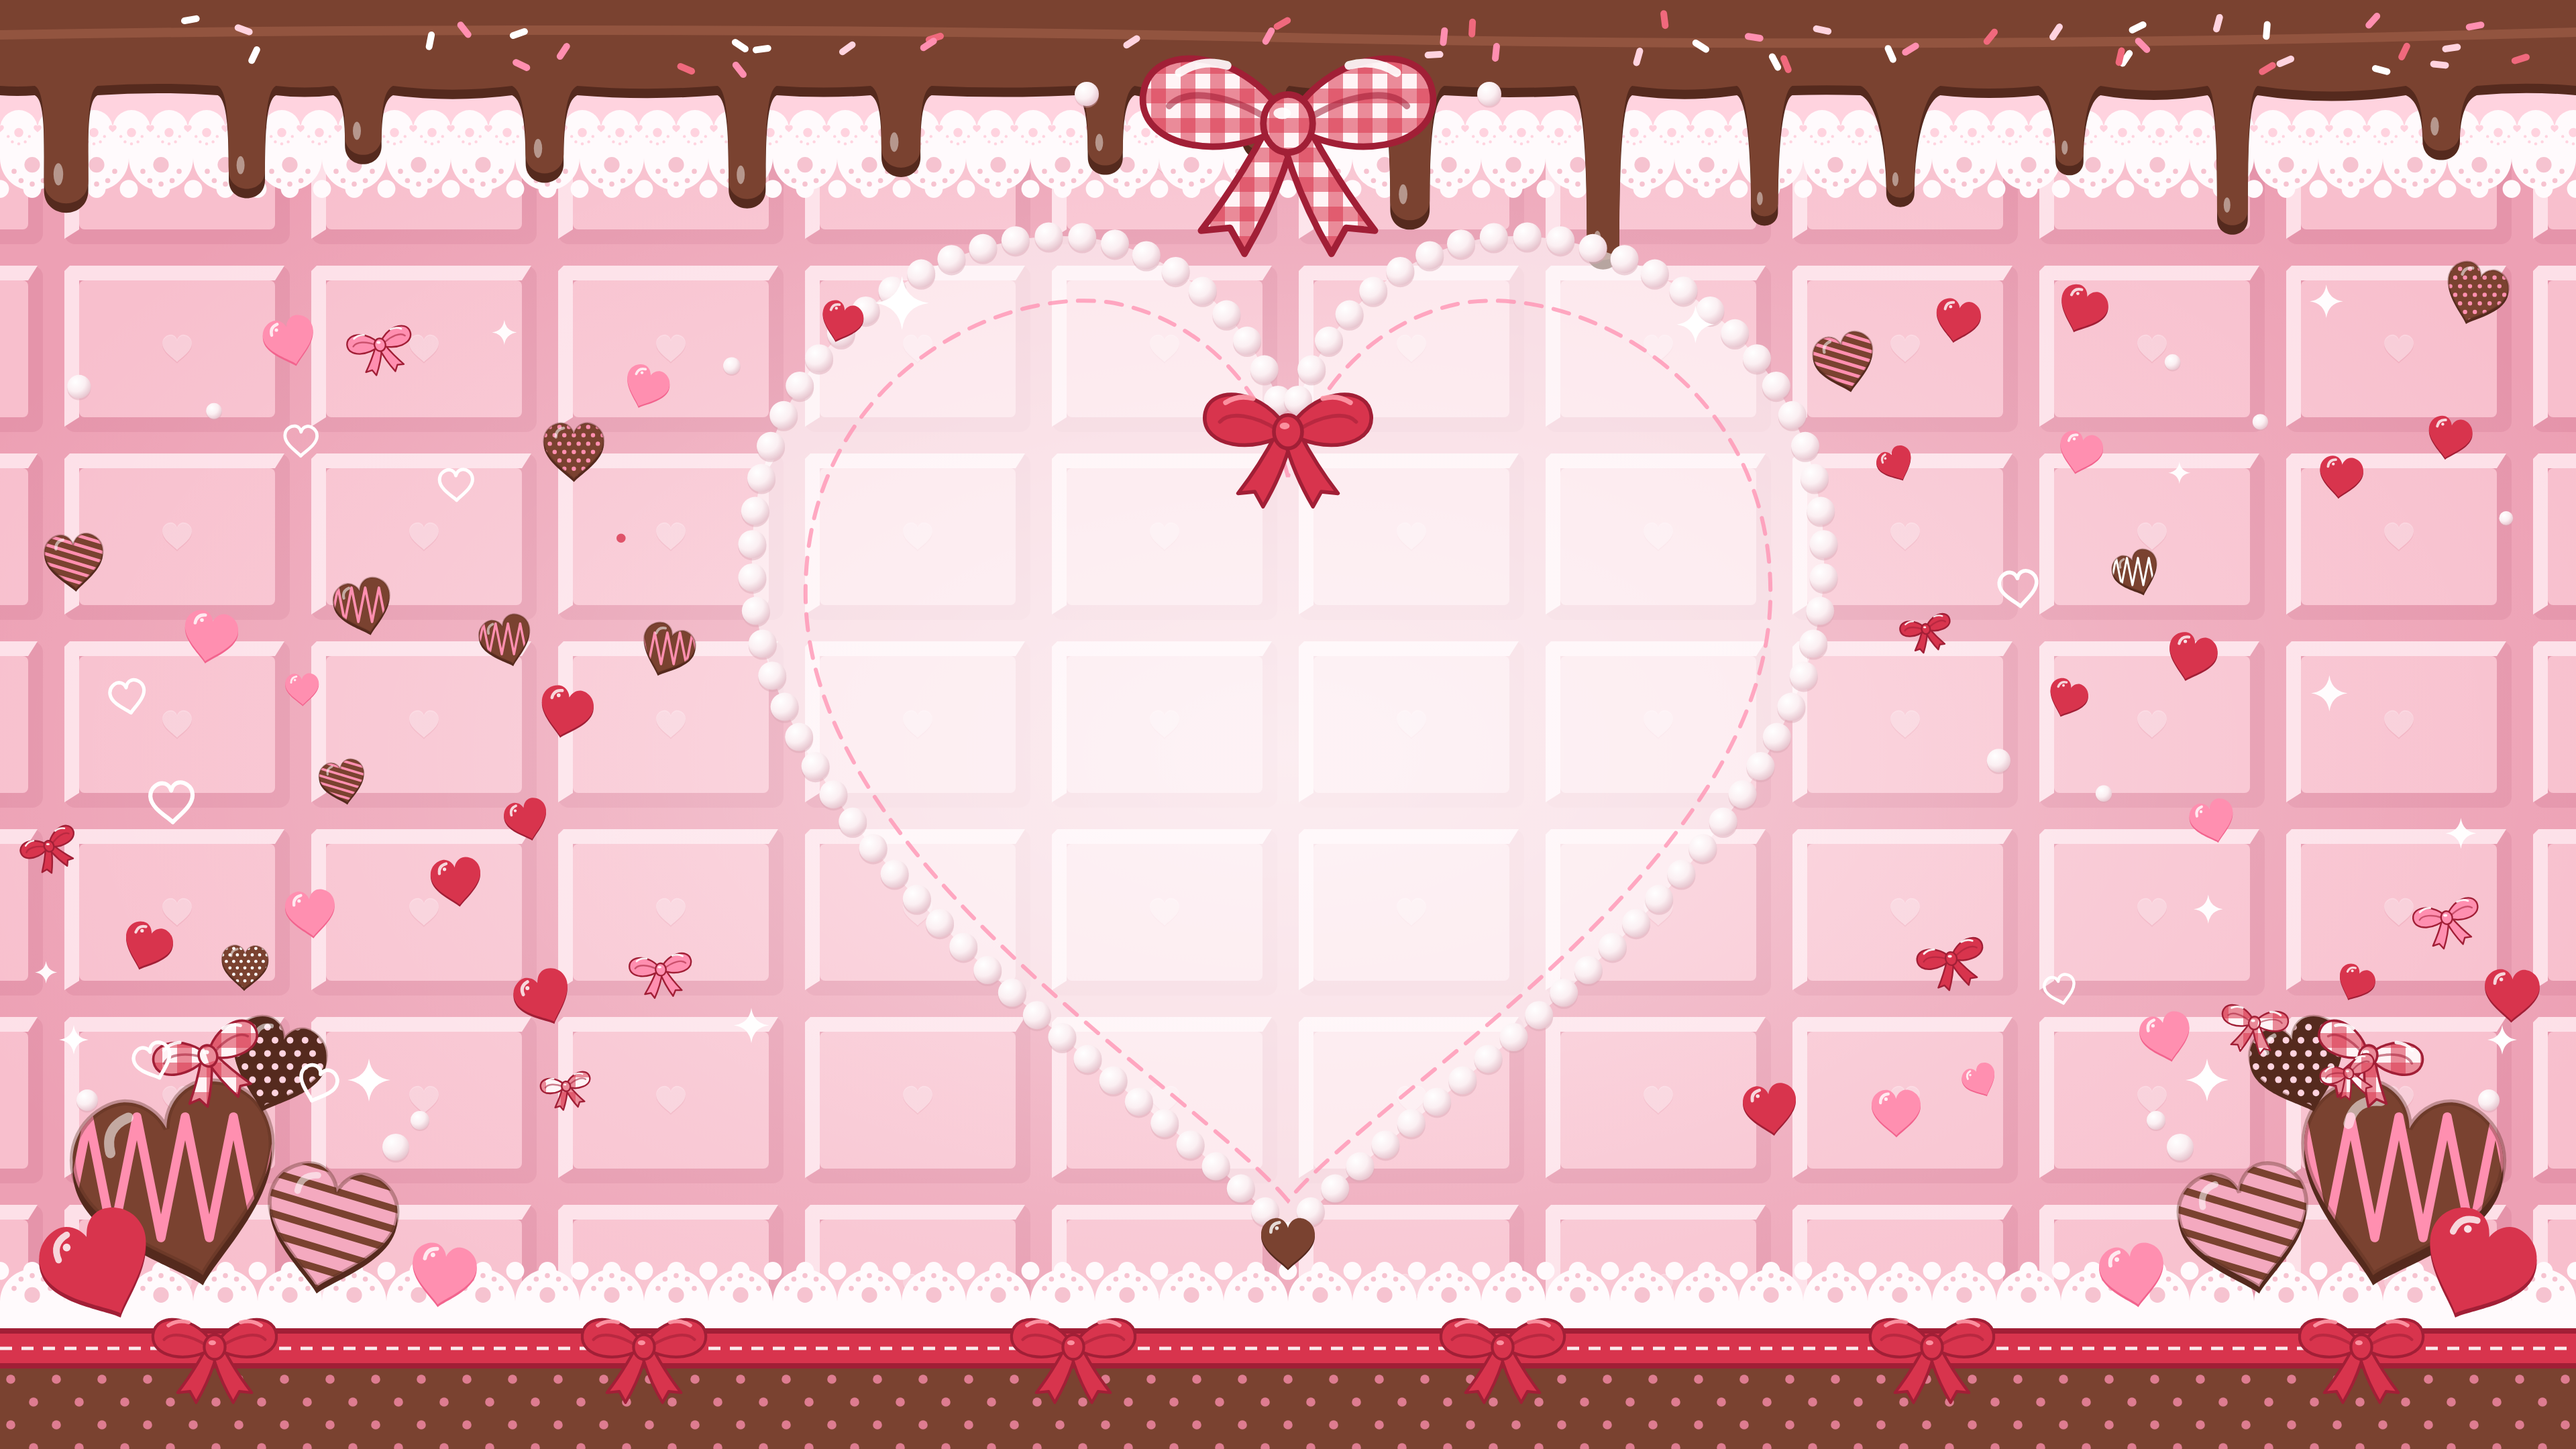
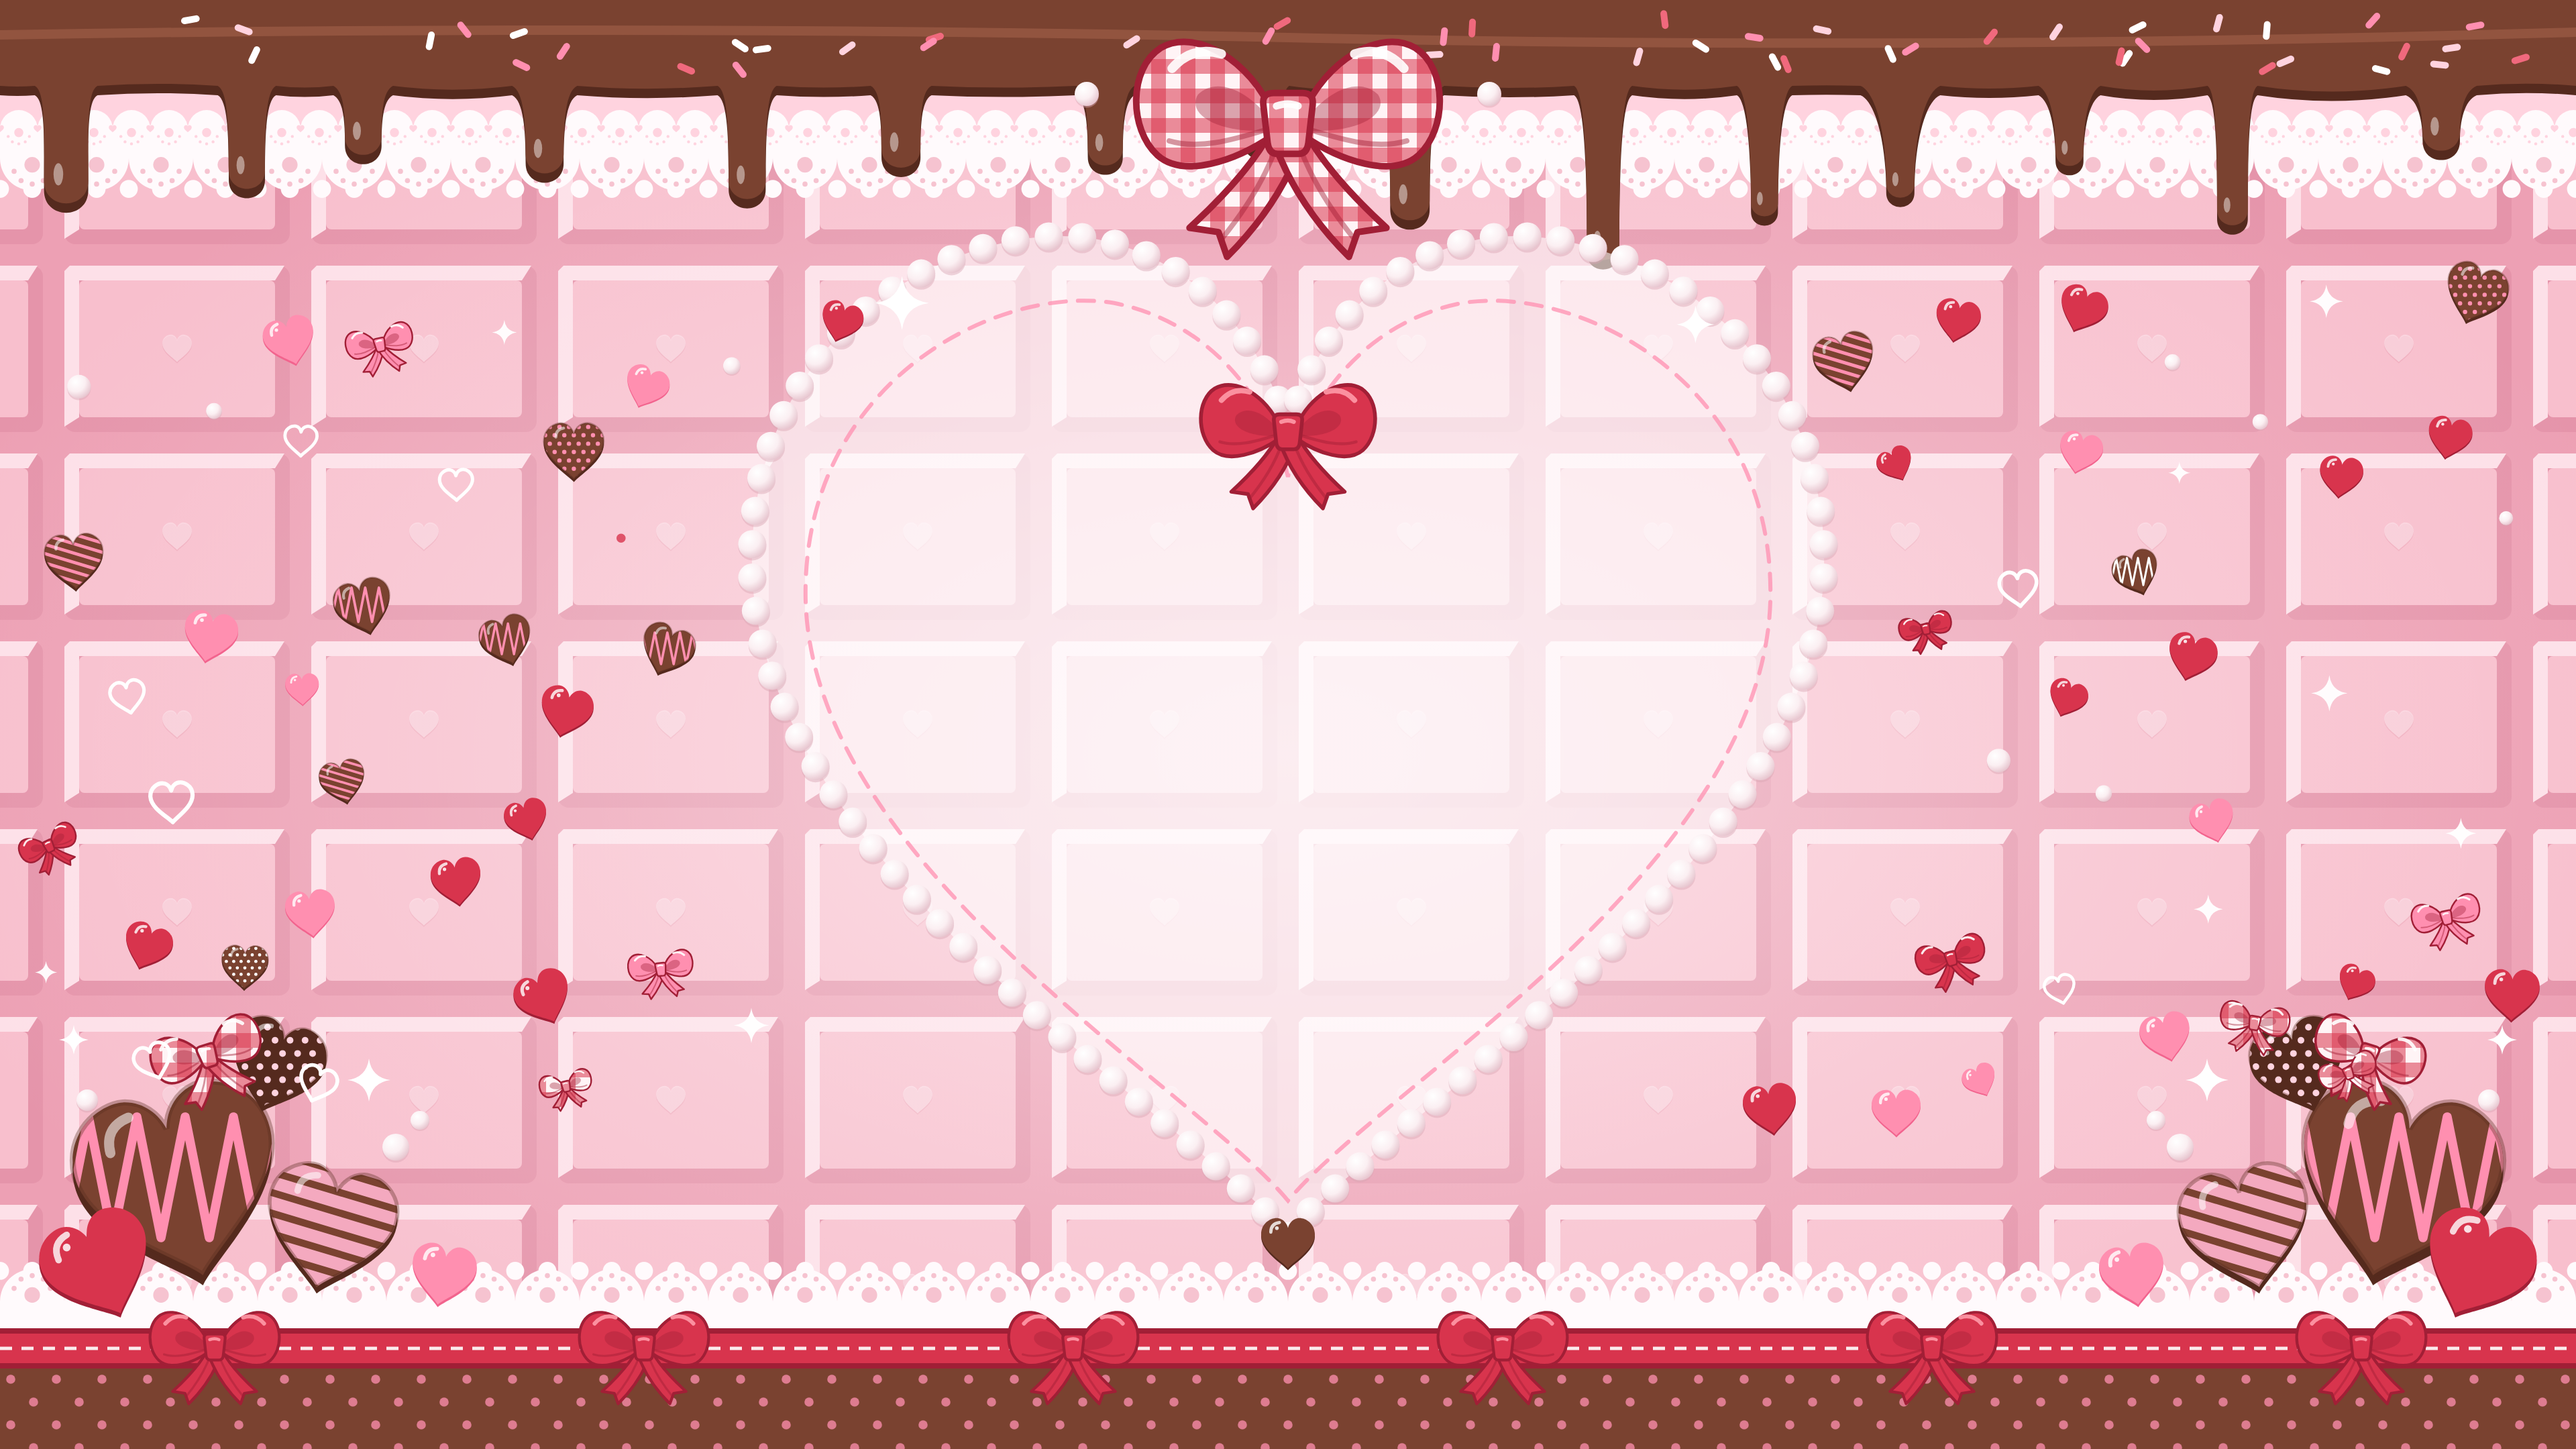
Reshape all bows into puffy ribbon-emoji style
Claude-Session: https://claude.ai/code/session_01JuB6idFz7qSQKoEgW7e81T

diff --git a/choco_ribbon_bg.html b/choco_ribbon_bg.html
@@ -79,25 +79,30 @@ function chocoHeart(cx,cy,s,rot,base,drizzle,style){
     `<path d="${d}" fill="none" stroke="${C.chocoDark}" stroke-opacity=".35" stroke-width="${f(s*0.03)}"/>`+
     `<path d="${tp('M-0.3,-0.25 Q-0.3,-0.38 -0.17,-0.4',cx,cy,s,rot)}" stroke="#fff" stroke-opacity=".55" stroke-width="${f(s*0.05)}" fill="none" stroke-linecap="round"/>`;
 }
+// 🎀-style bow: puffy round loops, pinched knot, flared notched tails
+function mx(d){let i=0;return d.replace(/-?\d*\.?\d+/g,n=>(i++%2===0)?String(-n):n)}
 function bow(cx,cy,s,rot,fill,dark,light){
-  const L='M0,0 C-0.25,-0.5 -0.95,-0.6 -1,-0.2 C-1.04,0.18 -0.4,0.28 0,0 Z';
-  const Rr='M0,0 C0.25,-0.5 0.95,-0.6 1,-0.2 C1.04,0.18 0.4,0.28 0,0 Z';
-  const TL='M-0.14,0.02 C-0.26,0.25 -0.4,0.48 -0.6,0.74 L-0.4,0.72 L-0.3,0.9 C-0.16,0.66 -0.04,0.4 0.04,0.1 Z';
-  const TR='M0.14,0.02 C0.26,0.25 0.4,0.48 0.6,0.74 L0.4,0.72 L0.3,0.9 C0.16,0.66 0.04,0.4 -0.04,0.1 Z';
-  const sw=f(Math.max(1.2,s*0.045));
+  const LOOP='M-0.1,-0.06 C-0.26,-0.44 -0.64,-0.66 -0.88,-0.52 C-1.1,-0.38 -1.1,0.04 -0.9,0.22 C-0.72,0.38 -0.36,0.26 -0.1,0.08 Z';
+  const FOLD='M-0.12,-0.02 C-0.28,-0.24 -0.5,-0.32 -0.62,-0.2 C-0.7,-0.08 -0.52,0.07 -0.12,0.05 Z';
+  const CREASE='M-0.14,0.04 C-0.4,0.12 -0.62,0.18 -0.82,0.12';
+  const SHINE='M-0.8,-0.38 Q-0.66,-0.54 -0.46,-0.48';
+  const TAIL='M-0.12,0.06 C-0.24,0.28 -0.44,0.5 -0.68,0.72 L-0.48,0.75 L-0.42,0.92 C-0.22,0.72 -0.02,0.46 0.1,0.12 Z';
+  const TAILLINE='M-0.08,0.16 C-0.16,0.38 -0.28,0.58 -0.46,0.8';
+  const KNOT='M-0.17,-0.13 Q-0.18,-0.21 -0.1,-0.21 L0.1,-0.21 Q0.18,-0.21 0.17,-0.13 L0.14,0.14 Q0.13,0.21 0.07,0.21 L-0.07,0.21 Q-0.13,0.21 -0.14,0.14 Z';
+  const sw=f(Math.max(1.2,s*0.045)), sw2=f(Math.max(1,s*0.035));
   const st=`stroke="${dark}" stroke-width="${sw}" stroke-linejoin="round"`;
-  return `<g>`+
-   `<path d="${tp(TL,cx,cy,s,rot)}" fill="${fill}" ${st}/>`+
-   `<path d="${tp(TR,cx,cy,s,rot)}" fill="${fill}" ${st}/>`+
-   `<path d="${tp(L,cx,cy,s,rot)}" fill="${fill}" ${st}/>`+
-   `<path d="${tp(Rr,cx,cy,s,rot)}" fill="${fill}" ${st}/>`+
-   `<path d="${tp('M-0.12,-0.02 C-0.4,-0.2 -0.7,-0.25 -0.82,-0.12',cx,cy,s,rot)}" fill="none" stroke="${dark}" stroke-opacity=".55" stroke-width="${sw}" stroke-linecap="round"/>`+
-   `<path d="${tp('M0.12,-0.02 C0.4,-0.2 0.7,-0.25 0.82,-0.12',cx,cy,s,rot)}" fill="none" stroke="${dark}" stroke-opacity=".55" stroke-width="${sw}" stroke-linecap="round"/>`+
-   `<path d="${tp('M-0.75,-0.35 Q-0.6,-0.45 -0.42,-0.4',cx,cy,s,rot)}" fill="none" stroke="${light}" stroke-opacity=".9" stroke-width="${f(s*0.06)}" stroke-linecap="round"/>`+
-   `<path d="${tp('M0.42,-0.4 Q0.6,-0.45 0.75,-0.35',cx,cy,s,rot)}" fill="none" stroke="${light}" stroke-opacity=".9" stroke-width="${f(s*0.06)}" stroke-linecap="round"/>`+
-   `<ellipse cx="${f(cx)}" cy="${f(cy)}" rx="${f(s*0.17)}" ry="${f(s*0.2)}" fill="${fill}" ${st} transform="rotate(${rot} ${f(cx)} ${f(cy)})"/>`+
-   `<ellipse cx="${f(cx-s*0.04)}" cy="${f(cy-s*0.07)}" rx="${f(s*0.06)}" ry="${f(s*0.04)}" fill="${light}" fill-opacity=".9"/>`+
-  `</g>`;
+  const P=(d,extra)=>`<path d="${tp(d,cx,cy,s,rot)}" ${extra}/>`;
+  let g='<g>';
+  for(const m of [d=>d, mx]){ g+=P(m(TAIL),`fill="${fill}" ${st}`)+P(m(TAILLINE),`fill="none" stroke="${dark}" stroke-opacity=".45" stroke-width="${sw2}" stroke-linecap="round"`); }
+  for(const m of [d=>d, mx]){
+    g+=P(m(LOOP),`fill="${fill}" ${st}`)+
+       P(m(FOLD),`fill="${dark}" fill-opacity=".38"`)+
+       P(m(CREASE),`fill="none" stroke="${dark}" stroke-opacity=".45" stroke-width="${sw2}" stroke-linecap="round"`)+
+       P(m(SHINE),`fill="none" stroke="${light}" stroke-opacity=".9" stroke-width="${f(s*0.065)}" stroke-linecap="round"`);
+  }
+  g+=P(KNOT,`fill="${fill}" ${st}`)+
+     P('M-0.08,-0.12 Q0,-0.15 0.07,-0.12',`fill="none" stroke="${light}" stroke-opacity=".9" stroke-width="${f(s*0.05)}" stroke-linecap="round"`);
+  return g+'</g>';
 }
 function sparkle(cx,cy,s,col='#fff',op=1){return `<path d="${tp(SPARK,cx,cy,s)}" fill="${col}" fill-opacity="${op}"/>`}
 function pearl(cx,cy,r){return `<circle cx="${f(cx)}" cy="${f(cy+r*0.15)}" r="${f(r)}" fill="#d9a7b4" fill-opacity=".45"/><circle cx="${f(cx)}" cy="${f(cy)}" r="${f(r)}" fill="url(#pearl)"/>`}
